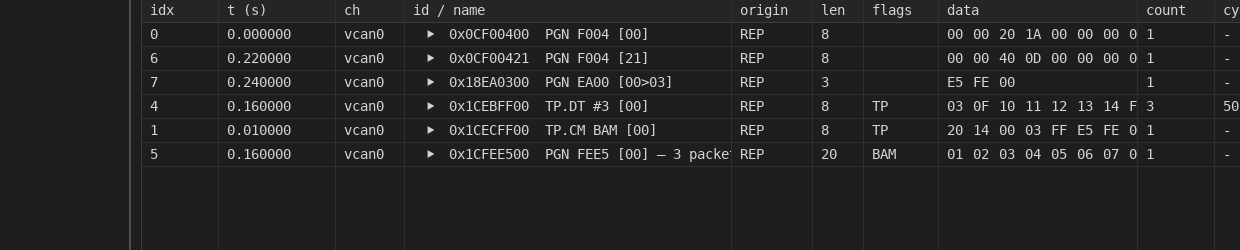
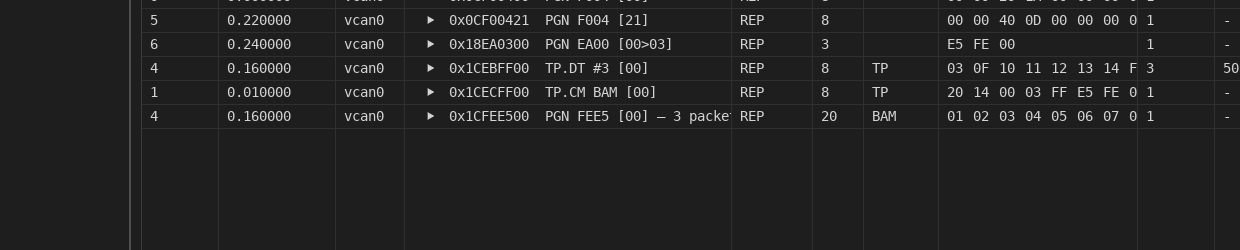
j1939: ten findings from /code-review high
The severe ones were all at the seams, not in the protocol core.

**The sample recording was untracked** — `.gitignore` has `samples/*` with an explicit
re-include list, so the committed demo project and two places in the manual pointed at a file
no clone would have. Re-included.

**The import reassembled only the visible tail.** The trim `continue` sat above `observe`, so
a transfer straddling the 2000-row boundary left its visible packets flagged TP with no
message behind them and its announcement counted as an orphan. The reassembler is fed every
frame now; the trim drops ROWS, never state.

**A rebuilt row consumed a file frame number.** `idx` was derived from the sequence, which is
right only while each row stands for one file frame, so every row after a rebuilt message was
labelled one too high — the exact invariant the import's seq pre-advance exists to hold. An
imported row now carries its own number, and a rebuilt one takes the number of the packet
that completed it.

**The demo project promised what it could not do.** It replayed onto the wire it watched, and
replayed frames are ours. Rewritten as one ticked row plus the recording, with the reason
written down.

Four more, each real: a quiet wire never swept its sessions, so the one case that comment
claimed — a sender that dies and takes the bus quiet with it — was reported at Stop as "the
measurement ended" (`tp_abort_line` is now the one spelling of that sentence, said at three
[…]

diff --git a/docs/simulation.md b/docs/simulation.md
@@ -317,6 +317,9 @@ BLOBLY_PROJECT=projects/j1939-demo.blobnet ./scripts/run_gui.sh
 # Trace ▸ Open Recording ▸ samples/j1939-bam.log
 ```
 
+The demo project has no replay row, deliberately: playing the recording onto the bus would make
+those frames *ours*, and reassembly is of what blobly receives.
+
 What a recording **cannot** be read for is the traffic blobly itself replays onto a bus: those
 frames are ours, and reassembly is of what this tool RECEIVES. That line is where it is because
 a backend decides it — PCAN does not echo our own sends at all, so a promise to rebuild them
